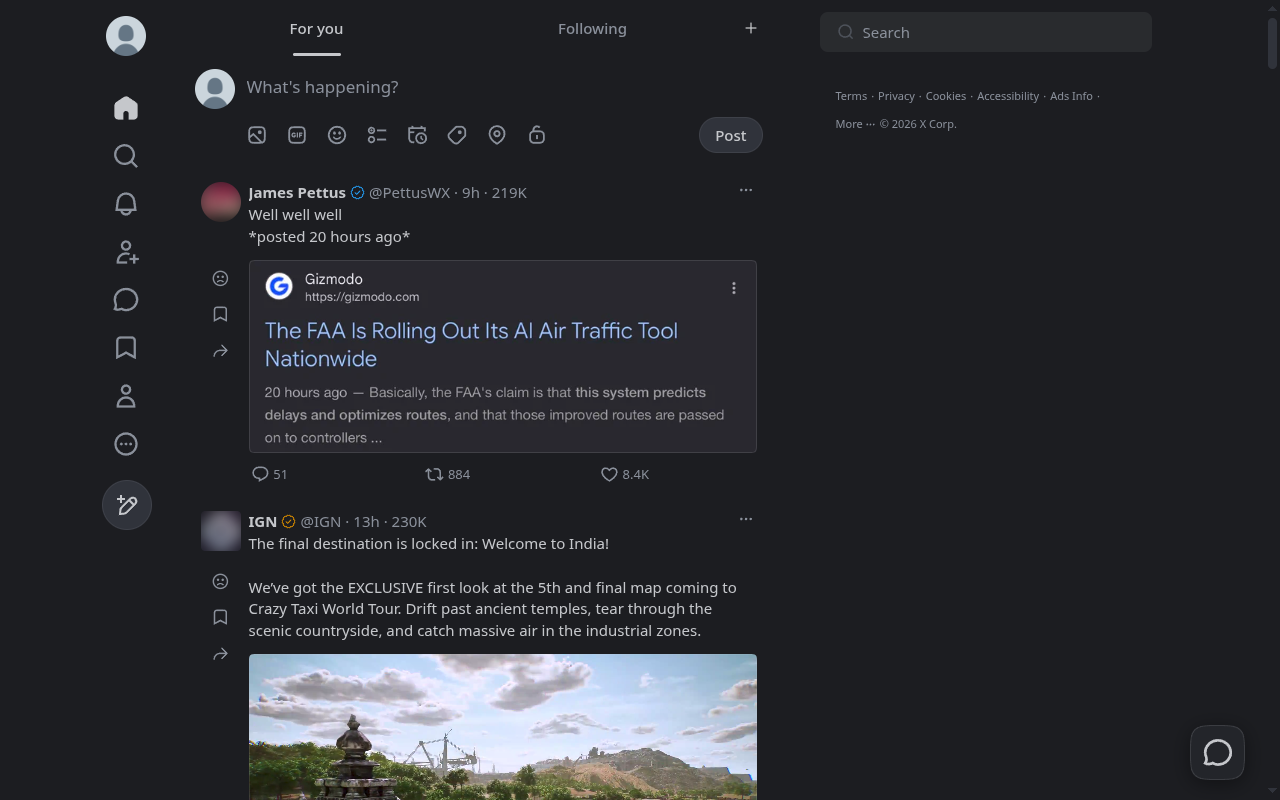
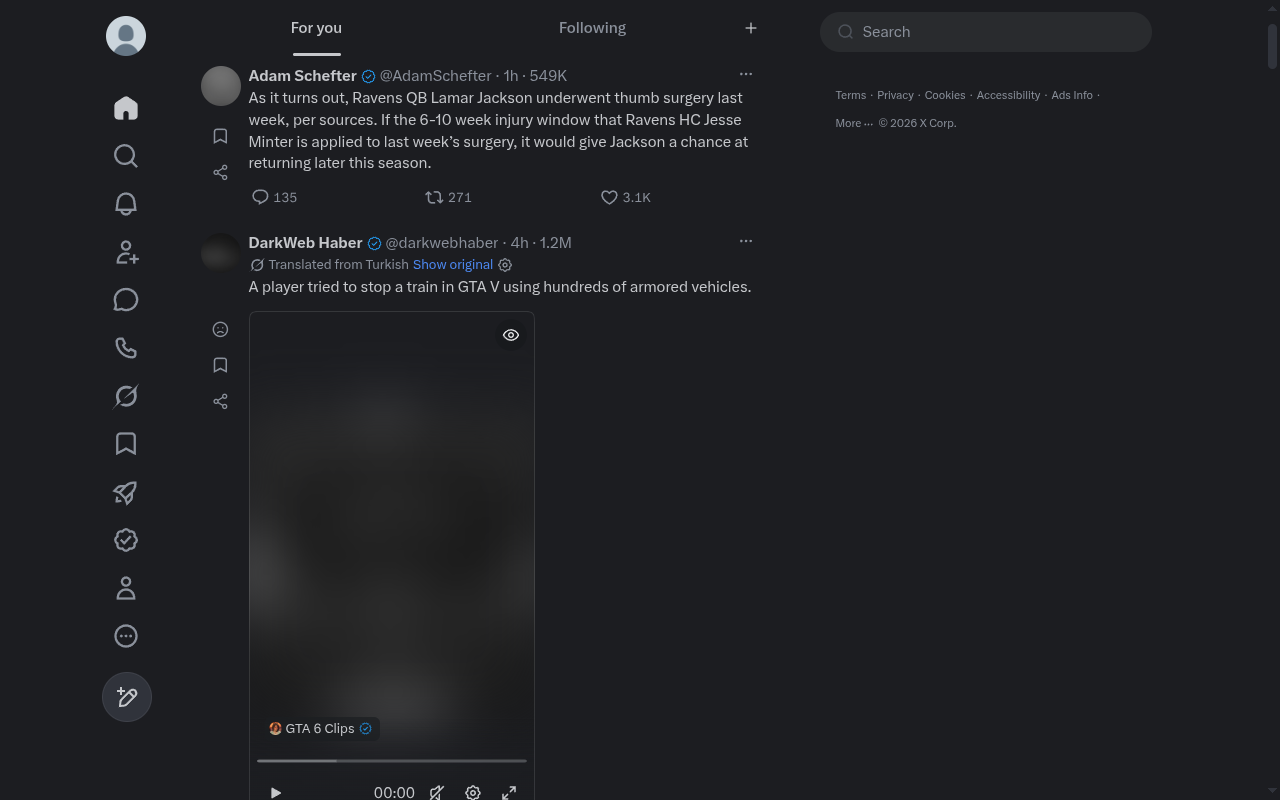
Words found in auto-translated posts too; store screenshots retaken
Word filters looked only at X's own text, so a post X shows translated (e.g. from Spanish) kept
English profanity unmasked. Detection now covers the shown text too, cached per shown-text length
(masking keeps it, a swapped-in translation changes it).

Screenshots (1280x800): feed with the under-avatar buttons and a blurred aggregator video,
collapsed replies, a profile, and the settings panel; trends hidden.

diff --git a/src/content/post.ts b/src/content/post.ts
@@ -50,12 +50,12 @@ export function ownHandle(): string | null {
   return (av && av.getAttribute('data-testid')!.replace('UserAvatar-Container-', '').toLowerCase()) || null;
 }
 
-function langFor(id: string, text: string): LangHits {
-  let r = langCache.get(id);
+function langFor(key: string, text: string): LangHits {
+  let r = langCache.get(key);
   if (!r) {
     r = { slur: false, prof: false, custom: false };
     for (const h of st.filter.find(text)) r[h.kind] = true;
-    langCache.set(id, r);
+    langCache.set(key, r);
     cap(langCache, 30000);
   }
   return r;
@@ -107,9 +107,11 @@ export function processPost(root: HTMLElement, page: Page): void {
   const t = tweets.get(id) || null;
   const u = (t && t.userId && users.get(t.userId)) || byHandle.get(info.handle.toLowerCase()) || null;
 
-  // Detect before masking, then mask on every pass (React may restore the text); unmask what a filter
-  // no longer masks.
-  const lang = langFor(id, (t && t.text) || info.text);
+  // Words: found in X's own text and in what's shown (an auto-translation can differ), cached by the
+  // shown text's length (masking keeps it, a translation swapped in changes it); masked on every pass
+  // (React may restore the text), unmasked when a filter stops masking.
+  const shown = info.text;
+  const lang = langFor(`${id}|${shown.length}`, t && t.text && t.text !== shown ? `${t.text}\n${shown}` : shown);
   const kinds = {
     slur: lang.slur && S.lang.slurAction === 'mask',
     prof: lang.prof && S.lang.profanityAction === 'mask',
